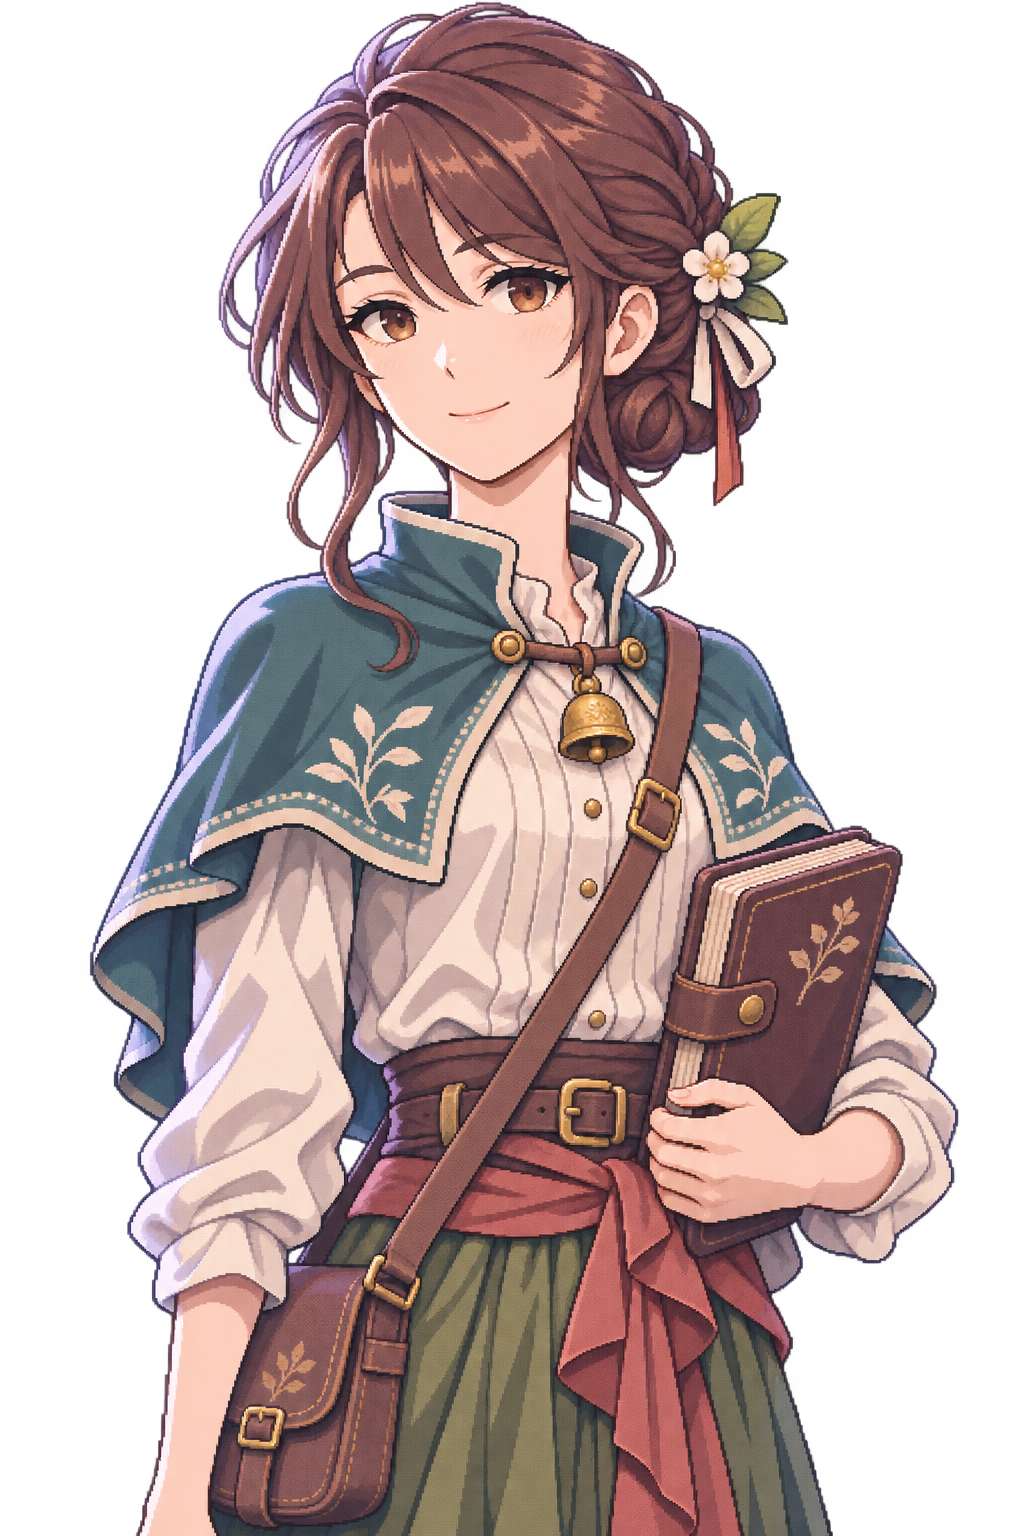
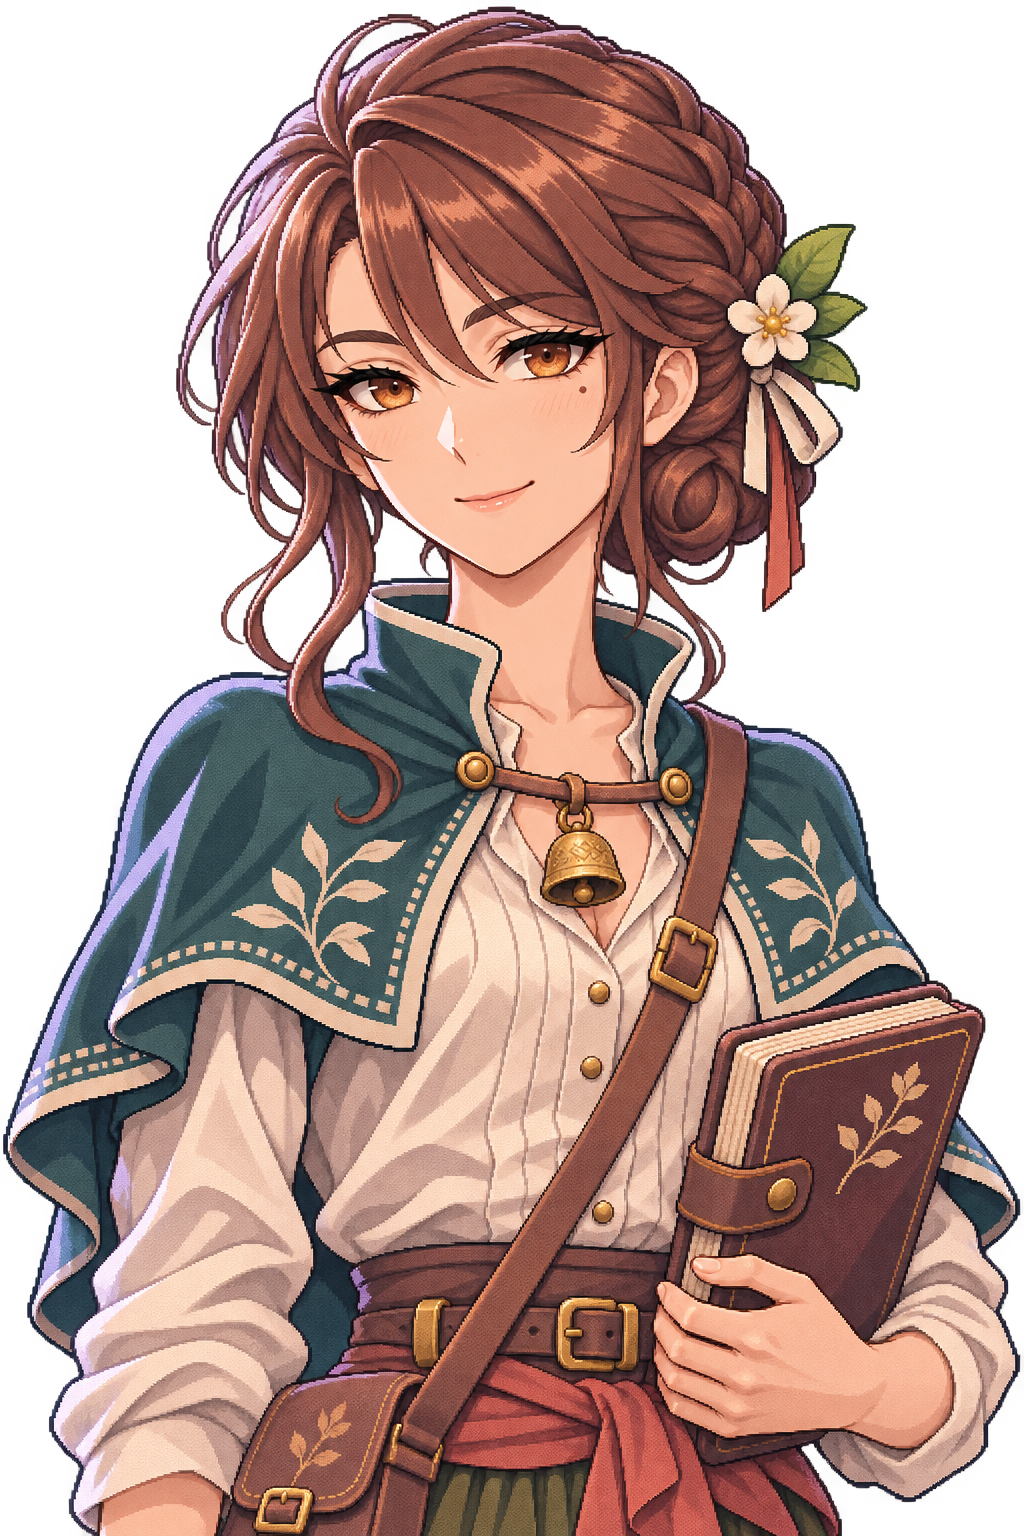
Refine Linghe and document distinct visual novel character designs

diff --git a/sunday_blue/art_assets.py b/sunday_blue/art_assets.py
@@ -10,7 +10,7 @@ DEFAULTS={
  'recovery_scene':dict(name='恢复站 · 休息角',path='assets/ui/recovery_scene.png',size='1200 × 360',ratio='10:3',transparent=False,placement='植物与靠枕在右侧；左侧约65%保持低细节留白，文字另由界面显示。',positive='Refined Japanese visual novel background, a quiet sunlit resting corner, ivory wall, pale sage cushions and a small potted plant on the far right, soft morning light, warm white and muted mint palette, wide horizontal composition, left sixty five percent clean low detail negative space for interface content, delicate cel shading, calm domestic atmosphere, high quality illustration.',negative='people, face, text, logo, watermark, clutter, multiple focal points, saturated neon colors, harsh contrast, deep black shadows, detailed patterns in left area, messy perspective, blur, low resolution')
 }
 
-DEFAULTS['settlement_host']=dict(name='结算看板娘',path='assets/ui/settlement_host.png',size='600 × 900',ratio='2:3',transparent=True,fit='contain',placement='成年陪伴角色居中，完整半身或立绘；四周留白，文字由界面显示。',positive='Refined Japanese visual novel character illustration, an adult woman companion with warm composed expression, elegant casual cream cardigan and muted blue skirt, relaxed welcoming pose, hands naturally visible, soft even lighting, clean cel shading, centered three quarter body composition, generous empty margins, transparent background, crisp high resolution silhouette.',negative='child, text, watermark, logo, extra fingers, missing fingers, distorted hands, extra limbs, malformed anatomy, exaggerated proportions, cluttered background, harsh shadows, blurry edges')
+DEFAULTS['settlement_host']=dict(name='结算看板娘',path='assets/ui/settlement_host.png',size='600 × 900',ratio='2:3',transparent=True,fit='contain',placement='成年陪伴角色居中，完整半身或立绘；四周留白，文字由界面显示。',positive='Refined Japanese visual-novel illustration of an adult woman hosting a daily recap, short wavy dark-blue hair with a side part, deep brown skin with a warm copper undertone, wide-set crescent-shaped gray-brown eyes, a dusting of freckles across the nose, and a relaxed welcoming smile. Softly fitted cream cardigan, muted blue skirt, small circular brass lapel pin, naturally relaxed shoulders with a slight collarbone highlight. Unforced adult poise, natural neck, shoulder, arm and wrist proportions, calm even light, clean cel shading, centered half-body composition, clear face at small UI scale, generous margins, transparent background.',negative='generic shared face, childlike anatomy, crossed eyes, warped shoulders, twisted wrists, extra or fused fingers, duplicate limbs, exaggerated proportions, gratuitous exposure, cluttered background, harsh shadows, blurry silhouette, watermark, text')
 
 def asset_spec(root,key):
     spec=dict(DEFAULTS[key])

diff --git a/docs/ART_DIRECTION.md b/docs/ART_DIRECTION.md
@@ -11,3 +11,20 @@
 | 非 Q 版轻像素立绘 | 游戏对话 | 发型、服装和标志物与角色设定一致。保留可见像素边缘、柔和分层光影与自然成人比例。优先核对头颈到肩的衔接、肘腕方向、持物重心、手指结构及袖口遮挡。透明底与独立对话区域。 |
 
 办公模式统一管理生活侧装饰图。游戏在独立窗口维护自己的资源与交互。
+
+## 角色辨识度与立绘验收
+
+- **先设计脸。** 每个原创角色固定至少两处可复现的面部特征，以及一处缩略图里能认出的外轮廓或随身物。面部优先选择眼型与上睫毛、眉形、唇形、痣或雀斑等少量细节。痣、疤和耳饰记录角色自身的左右侧，换表情或视角时保持一致。
+- **肤色、种族和生活环境共同塑造外观。** 为角色记录稳定的肤色与底调。有人类、精灵或其他原创族群时，耳形、瞳孔、角或皮肤纹理从世界观选取，与同角色的头像、半身立绘、换装和 Q 版统一。每个角色挑最有辨识度的特征即可。
+- **脸是视觉重点。** 在实际对话尺寸先验收眼神、表情和面部轮廓，再检查服装纹样。允许成年角色带一点色气，主要用目光、唇角、姿态、锁骨露肤与衣料剪裁表达，强度随角色性格、职业与场合变化。
+- **检查比例和持物。** 在原图逐一检查双眼透视、颈肩连接、肘腕方向、手指数量和关节、遮挡关系及物品重心。再用实际对话尺寸与头像裁切各看一次，确认脸部记号、表情和轮廓还能辨认。
+- **保持原创角色设定。** 参考成熟二游如何把角色身份、气质和一眼可认的造型联系起来，设计独立的脸、服装和标志物。例如罗宾的官方介绍把天环族身份与歌手职业写进了同一套角色设定，可参考这种设计关联。[《崩坏：星穹铁道》角色介绍](https://hsr.hoyoverse.com/en-us/character?charIndex=2)
+
+### 新角色提示词模板
+
+| 部分 | 英文模板 |
+| --- | --- |
+| Positive | Original adult visual novel character, [role and species], [skin tone and undertone], [eye shape, iris color, lashes and brow shape], [one signature facial detail with anatomical side], [distinct hairstyle silhouette and outfit motif], [character-appropriate expression and posture], restrained sensuality through eye contact, relaxed pose or tailored clothing where appropriate, anatomically coherent shoulders, elbows, wrists and hands, [scene-specific rendering style], face readable at interface scale, transparent background |
+| Negative | Generic same-face design, childlike proportions, marked feature on the wrong side, unstable skin tone, misaligned eyes, warped neck or shoulders, twisted wrists, extra or fused digits, floating objects, exaggerated proportions, voyeuristic framing, heavy glare on face, text, watermarks |
+
+铃禾的实装特征、提示词和资源路径见 [雾铃谷指南](HAMLET.md)。
